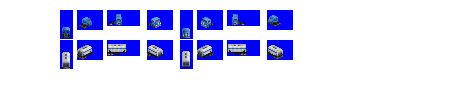
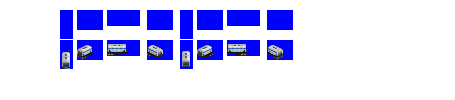
Codechange: stub in graphics processing trigger for covered hoppers and refrigerated vehicles; also add gen 3 semi-tractor base platform

diff --git a/src/road_vehicle.py b/src/road_vehicle.py
@@ -532,6 +532,8 @@ class CoveredHopperHaulerConsistBase(Consist):
         self.default_cargos = global_constants.default_cargos['covered_hopper']
         self.loading_speed_multiplier = 2
         self.weight_multiplier = 0.45
+        # !! this is hax as there is no opening doors pipeline for RVs currently - see Horse version
+        self.gestalt_graphics = GestaltGraphicsLiveryOnly(recolour_maps=graphics_constants.livestock_livery_recolour_maps)
 
 
 class CoveredHopperTramConsist(CoveredHopperHaulerConsistBase, TrackTypeMixinTram):
@@ -980,6 +982,8 @@ class RefrigeratedHaulerConsistBase(Consist):
         self.default_cargos = global_constants.default_cargos['reefer']
         self.cargo_age_period = 2 * global_constants.CARGO_AGE_PERIOD
         self.weight_multiplier = 0.5
+        # !! this is hax as there is no opening doors pipeline for RVs currently - see Horse version
+        self.gestalt_graphics = GestaltGraphicsLiveryOnly(recolour_maps=graphics_constants.livestock_livery_recolour_maps)
 
 
 class RefrigeratedTramConsist(RefrigeratedHaulerConsistBase, TrackTypeMixinTram):
